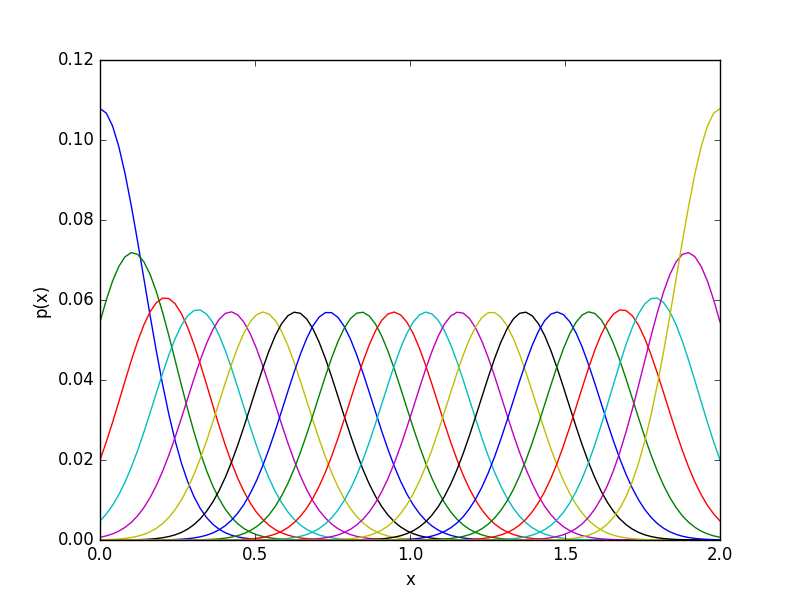
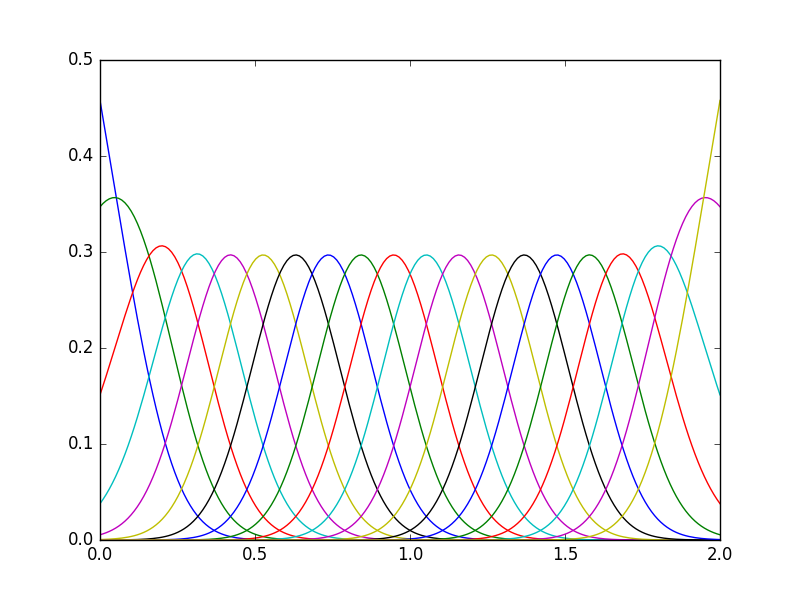
updated 31b

diff --git a/ex3/Code/31b.py b/ex3/Code/31b.py
@@ -8,23 +8,20 @@ def plot_phi(phi, x):
 		plt.plot(x, phi[i])
 	plt.show()
 
+# normalizes rows
 def normalize(matrix):
-	for i in range(0, len(matrix[0])):
-		total = 0
-		column = matrix[:,i]
-		for j in range(0, len(column)):
-			total += column[j]
-		for j in range(0, len(column)):
-			column[j] = column[j]/total
+	for i in range(0, len(matrix)):
+		matrix[i] = matrix[i]/np.sum(matrix[i])
 	return matrix
 
+# creates phi matrix with gaussians
 def get_phi_gaussians(space, x, var):
-	matrix = np.zeros((len(space),len(x)))
-	
-	# fill matrix
+	matrix = np.zeros((len(x), len(space)))
+	for i in range(0, len(matrix[0])):
+		matrix[:,i] = x
 	for i in range(0, len(matrix)):
-		matrix[i] = x-space[i]
-	matrix = np.exp(-np.power(matrix,2)/(2*var))
+		matrix[i] = matrix[i] - space
+	matrix = np.exp(-np.power(matrix, 2)/(2*var))
 	return matrix
 
 var = 0.02
@@ -33,5 +30,5 @@ space = np.linspace(0, 2, num=20)
 x = np.linspace(0, 2, num=201)
 
 matrix = get_phi_gaussians(space, x, var)
-matrix = normalize(matrix)
+matrix = normalize(matrix).T
 plot_phi(matrix, x)
